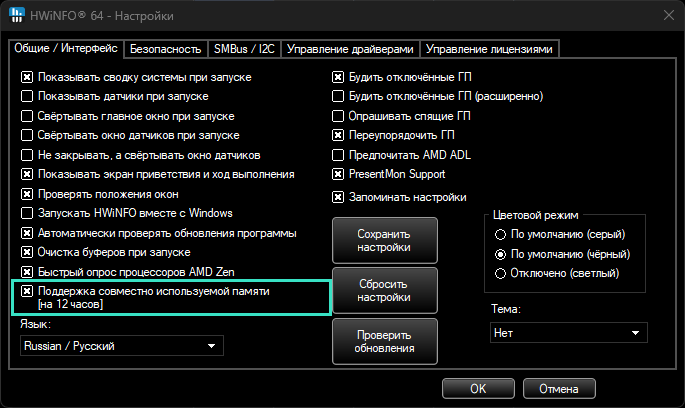
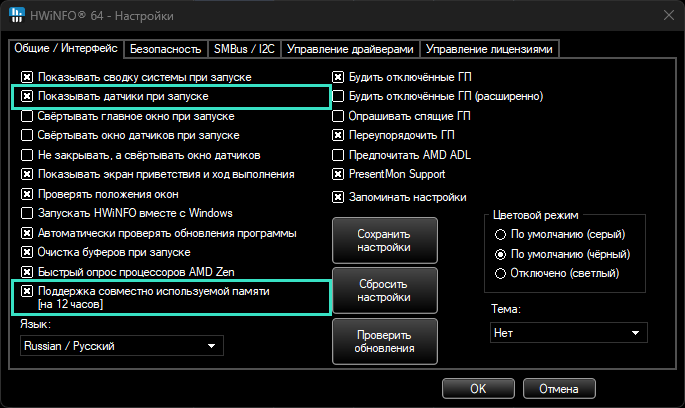
README и подсказка HUD: HWiNFO отдаёт данные только с открытым окном «Датчики»
Добавлена галка «Показывать датчики при запуске» (Show Sensors on Startup)
в шаги установки и на скриншот; подсказка при запущенном HWiNFO без данных
теперь в первую очередь предлагает открыть окно «Датчики».

Changed region(s): [[0.0, 0.2059, 0.4905, 0.2941]]

diff --git a/backend/diagnose.py b/backend/diagnose.py
@@ -35,7 +35,10 @@ def hwinfo_hint(source_cls) -> str:
         else:
             return "HWiNFO найден — подключаемся…"
     if not hwinfo_running():
-        return ("HWiNFO не запущен. Запустите его с включённой галкой "
-                "«Поддержка совместно используемой памяти» — HUD подключится сам.")
-    return ("HWiNFO запущен, но общая память выключена: Настройки → «Поддержка совместно "
-            "используемой памяти» (Shared Memory Support), затем перезапустите HWiNFO.")
+        return ("HWiNFO не запущен. Запустите его и откройте окно «Датчики» — HUD подключится сам. "
+                "В настройках HWiNFO должны стоять галки «Поддержка совместно используемой памяти» "
+                "и «Показывать датчики при запуске».")
+    # данные идут только пока открыто окно «Датчики» — это самая частая причина
+    return ("HWiNFO запущен, но данных нет. Откройте в нём окно «Датчики» (кнопка «Датчики»). "
+            "Если не помогло: Настройки → «Поддержка совместно используемой памяти» "
+            "(Shared Memory Support), затем перезапустите HWiNFO.")

diff --git a/README.md b/README.md
@@ -24,12 +24,19 @@
 
 Нужны три программы: HWiNFO (показания датчиков), RTSS (FPS в играх) и сам PC HUD.
 
-1. **HWiNFO** — источник показаний. [Скачайте](https://www.hwinfo.com/download/) и установите, откройте **Настройки** и поставьте галку
-   **Поддержка совместно используемой памяти** (в английской версии — **Shared Memory Support**).
-   Оставьте HWiNFO запущенным с открытым окном датчиков. В бесплатной версии общая память
-   отключается через 12 часов — тогда перезапустите HWiNFO.
+1. **HWiNFO** — источник показаний. [Скачайте](https://www.hwinfo.com/download/) и установите,
+   откройте **Настройки** и поставьте две галки:
+   - **Поддержка совместно используемой памяти** (в английской версии — **Shared Memory Support**);
+   - **Показывать датчики при запуске** (**Show Sensors on Startup**).
 
-   ![HWiNFO: галка Shared Memory](docs/hwinfo-shared-memory.png)
+   HWiNFO отдаёт данные, только пока открыто его окно **«Датчики»**. Вторая галка открывает его
+   сама; без неё после каждого запуска HWiNFO нужно нажимать кнопку **«Датчики»**.
+   Окно можно свернуть, но не закрывать. Удобно добавить ещё
+   **Не закрывать, а свёртывать окно датчиков** и, по желанию,
+   **Запускать HWiNFO вместе с Windows**.
+   В бесплатной версии общая память отключается через 12 часов — тогда перезапустите HWiNFO.
+
+   ![HWiNFO: галки Shared Memory и «Показывать датчики при запуске»](docs/hwinfo-shared-memory.png)
 
 2. **RivaTuner Statistics Server (RTSS)** — источник FPS, ставится вместе с
    [MSI Afterburner](https://www.msi.com/Landing/afterburner/graphics-cards) (галка RTSS в установщике).
